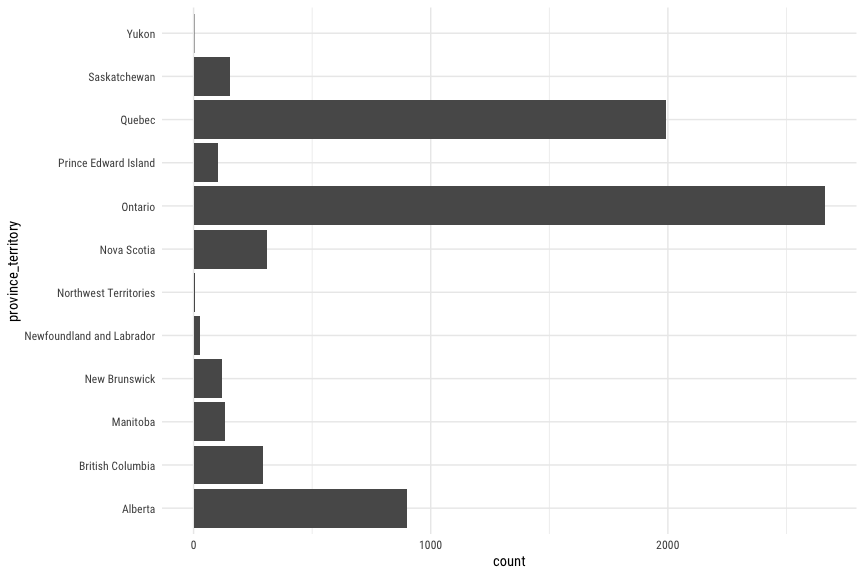
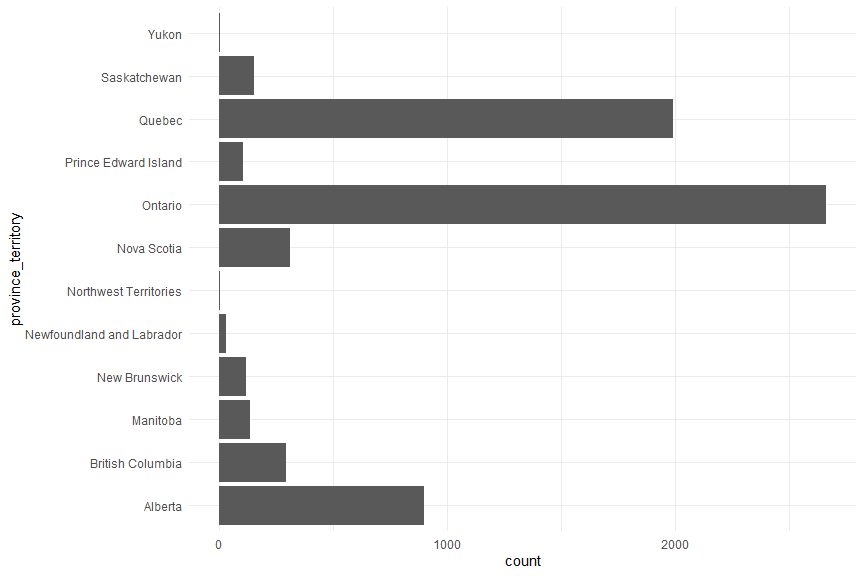
:pencil: add comments tips'n'tricks

diff --git a/2020-10-27/README.md b/2020-10-27/README.md
@@ -17,9 +17,9 @@ or reach out to us on [Twitter](https://twitter.com/CorrelAid)\!
 library(tidyverse)
 library(tidytuesdayR)
 library(ragg)
-library(sf)
-library(ggplot2)
+
 theme_set(theme_minimal(base_family = "Roboto Condensed"))
+
 tt <- tt_load("2020-10-27")
 ```
 
@@ -30,6 +30,8 @@ tt <- tt_load("2020-10-27")
 df_wind <- tt$`wind-turbine`
 ```
 
+You can quickly build a bar plot with `geom_bar(aes(x))`:
+
 ``` r
 ggplot(df_wind, aes(x = province_territory)) +
   geom_bar() +
@@ -37,6 +39,10 @@ ggplot(df_wind, aes(x = province_territory)) +
 ```
 
 ![](README_files/figure-gfm/unnamed-chunk-1-1.png)<!-- -->
+
+Actually I prefer to caclulate the summaries first, then one uses
+`geom_col(aes(x, y))`. One good thing about it: You can easily sort the
+bars in an increasing order for better readability:
 
 ``` r
 df_wind %>% 
@@ -46,7 +52,10 @@ df_wind %>%
   coord_flip()
 ```
 
-![](README_files/figure-gfm/unnamed-chunk-1-2.png)<!-- -->
+![](README_files/figure-gfm/unnamed-chunk-2-1.png)<!-- -->
+
+This way, one can also quickly filter by the number of wind turbines to
+focus on the most comon categories:
 
 ``` r
 df_wind %>% 
@@ -57,9 +66,24 @@ df_wind %>%
   coord_flip()
 ```
 
-![](README_files/figure-gfm/unnamed-chunk-1-3.png)<!-- -->
+![](README_files/figure-gfm/unnamed-chunk-3-1.png)<!-- -->
+
+If you want to produce a map, turn the dataframe into an spatial object
+(preferably an `sf` object) and plot it afterwards with `geom_sf()`.
+Note that you don’t need to specify `x` and `y`—ggplot’s `geom_sf()`
+wnows that the coords are what it needs to plot.
+
+Why not simply plot longitude versus latitude? Yes, you can do that but
+if you want to add a map underneath it needs to hvae the same
+projection, otherwise your points will not match with the map. Turning
+the data into a spatial object allows to reproject (change the
+projection of/transform) the data, e.g. into the [Lambert Conformal
+Conic projection](https://proj.org/operations/projections/lcc.html) that
+is often used for Canada and the US:
 
 ``` r
+library(sf)
+
 sf_wind <- 
   df_wind %>% 
   st_as_sf(coords = c("longitude", "latitude"), 
@@ -77,16 +101,20 @@ ggplot(sf_canada) +
           size = 2, shape = 21, fill = NA)
 ```
 
-![](README_files/figure-gfm/unnamed-chunk-2-1.png)<!-- -->
+![](README_files/figure-gfm/unnamed-chunk-4-1.png)<!-- -->
+
+Density maps are a quick solution to deal with oveprlotting (as it’s the
+case here). It is very simple to make a hex-bin density map in one line
+with `geom_hex()`:
 
 ``` r
 ggplot(df_wind, aes(longitude, latitude)) +
   geom_hex()
 ```
 
-![](README_files/figure-gfm/unnamed-chunk-2-2.png)<!-- -->
+![](README_files/figure-gfm/unnamed-chunk-5-1.png)<!-- -->
 
-**Tips’n’Tricks:**
+### Tips’n’Tricks:
 
   - `GGally::ggpairs()` for a quick EDA
   - `rnaturalearth::ne_countries()` and `rnaturalearth::ne_states()` for
@@ -230,7 +258,7 @@ witu %>%
       scale_y_continuous(expand = c(0, 0))
 ```
 
-![](README_files/figure-gfm/unnamed-chunk-6-1.png)<!-- -->
+![](README_files/figure-gfm/unnamed-chunk-9-1.png)<!-- -->
 
 ``` r
       NULL
@@ -297,21 +325,13 @@ province_capacities <- turbines %>%
   distinct(province_territory, project_name, capacity) %>% # dirty
   group_by(province_territory) %>% 
   summarize(sum_capacity = round(sum(capacity), 2))
-```
 
-    ## `summarise()` ungrouping output (override with `.groups` argument)
-
-``` r
 # number of turbines and number of projects
 province_ns <- turbines %>% 
   group_by(province_territory) %>% 
   summarize(n_projects = n_distinct(project_name),
          n_turbines = n())
-```
 
-    ## `summarise()` ungrouping output (override with `.groups` argument)
-
-``` r
 # join the two datasets
 province_data <- left_join(province_ns, province_capacities, by = "province_territory")
 
@@ -327,12 +347,7 @@ province_data <- province_data %>%
 # join the data to the spatial file, and then join the polygons with the points
 turbines_sf <- left_join(turbines_sf, province_data, by = "province_territory")
 canada_turbines <- sf::st_join(turbines_sf, canada)
-```
 
-    ## although coordinates are longitude/latitude, st_intersects assumes that they are planar
-    ## although coordinates are longitude/latitude, st_intersects assumes that they are planar
-
-``` r
 # "aggregate" turbine spatial data to get the PRUID and province_territory variables in a province level dataset 
 sum(is.na(canada_turbines$PRUID)) # 4 turbines are not associated to a polygon
 ```
@@ -380,13 +395,6 @@ m <- mapdeck(token = key, style = mapdeck_style("dark"), pitch = 45 ) %>%
     layer_id = "turbines",
     tooltip = "tooltip"
   )
-```
-
-    ## Registered S3 method overwritten by 'jsonify':
-    ##   method     from    
-    ##   print.json jsonlite
-
-``` r
 # m # commented out for knitting
 ```
 
@@ -411,46 +419,15 @@ library(tmap)
 library(sf)
 ###data wind turbines###
 Wind_Turbine_Database_FGP <- readr::read_csv('https://raw.githubusercontent.com/rfordatascience/tidytuesday/master/data/2020/2020-10-27/wind-turbine.csv')
-```
 
-    ## 
-    ## ── Column specification ────────────────────────────────────────────────────────
-    ## cols(
-    ##   objectid = col_double(),
-    ##   province_territory = col_character(),
-    ##   project_name = col_character(),
-    ##   total_project_capacity_mw = col_double(),
-    ##   turbine_identifier = col_character(),
-    ##   turbine_number_in_project = col_character(),
-    ##   turbine_rated_capacity_k_w = col_double(),
-    ##   rotor_diameter_m = col_double(),
-    ##   hub_height_m = col_double(),
-    ##   manufacturer = col_character(),
-    ##   model = col_character(),
-    ##   commissioning_date = col_character(),
-    ##   latitude = col_double(),
-    ##   longitude = col_double(),
-    ##   notes = col_character()
-    ## )
-
-``` r
 names(Wind_Turbine_Database_FGP)[2] <- "territory"
 names(Wind_Turbine_Database_FGP)[12] <- "year"
 
 Wind_Turbine_Database_FGP$year <- as.numeric(Wind_Turbine_Database_FGP$year)
-```
-
-    ## Warning: NAs introduced by coercion
-
-``` r
 df <- Wind_Turbine_Database_FGP %>%
   dplyr::group_by(territory, year) %>%
   dplyr::summarise(Freq = n())
-```
 
-    ## `summarise()` regrouping output by 'territory' (override with `.groups` argument)
-
-``` r
 ###add territories and provinces####
 # uncomment the following lines to download and unzip
 # url <- "https://download2.exploratory.io/maps/canada_provinces.zip"
@@ -459,12 +436,12 @@ df <- Wind_Turbine_Database_FGP %>%
 canada <- sf::st_read("canada_provinces/canada_provinces/canada_provinces.geojson")
 ```
 
-    ## Reading layer `canada_provinces' from data source `/Users/frie/dev/correlaid/websites/correlaid-tidytuesday/2020-10-27/canada_provinces/canada_provinces/canada_provinces.geojson' using driver `GeoJSON'
+    ## Reading layer `canada_provinces' from data source `C:\Users\DataVizard\Google Drive\Work\Programing\R\correlaid-tidytuesday\2020-10-27\canada_provinces\canada_provinces\canada_provinces.geojson' using driver `GeoJSON'
     ## Simple feature collection with 13 features and 7 fields
     ## geometry type:  MULTIPOLYGON
     ## dimension:      XY
     ## bbox:           xmin: -141.0181 ymin: 41.7297 xmax: -52.6194 ymax: 74
-    ## CRS:            4269
+    ## geographic CRS: NAD83
 
 ``` r
 names(canada)[3] <- "territory"
@@ -506,11 +483,6 @@ anim_can = tm_shape(canada) + tm_polygons(col = "lightblue") + tm_shape(carto_no
 library(ggplot2)
 library(dplyr)
 library(viridis)
-```
-
-    ## Loading required package: viridisLite
-
-``` r
 wind2 <- wind_turbine %>%
   filter(
     province_territory == "Alberta" |
@@ -537,7 +509,7 @@ ggplot(wind2,
         legend.position = "bottom")
 ```
 
-![](README_files/figure-gfm/unnamed-chunk-11-1.png)<!-- -->
+![](README_files/figure-gfm/unnamed-chunk-14-1.png)<!-- -->
 
 ## A classic bar plot
 
@@ -555,11 +527,6 @@ wt_height <- wind_turbine  %>%
   mutate(commissioning_date = as.numeric(str_sub(commissioning_date, start=1, end=4))) %>%
   group_by(commissioning_date) %>%
   summarize(avg_hub_height = mean(hub_height_m))
-```
-
-    ## `summarise()` ungrouping output (override with `.groups` argument)
-
-``` r
 ggplot(wt_height) +
   geom_col(aes(x = commissioning_date, y = avg_hub_height)) +
   labs(title = "Height of Wind Turbines", x = "Year", y = "Average Height (m)") +
